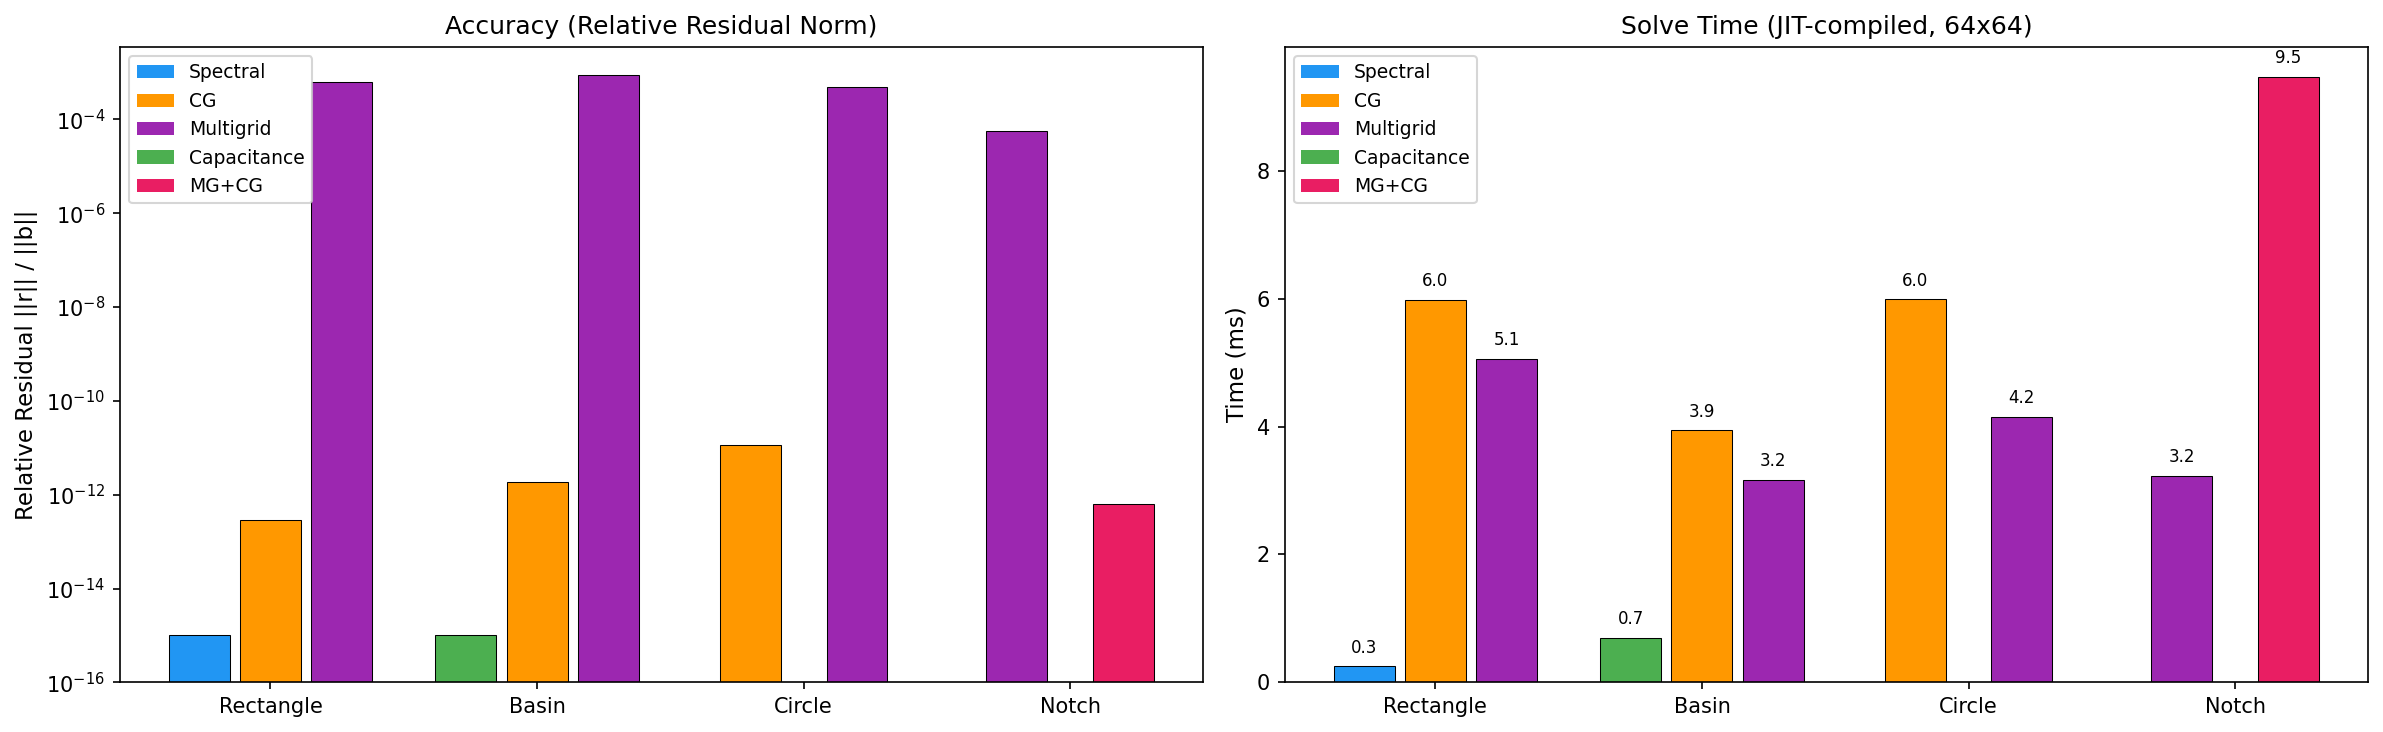
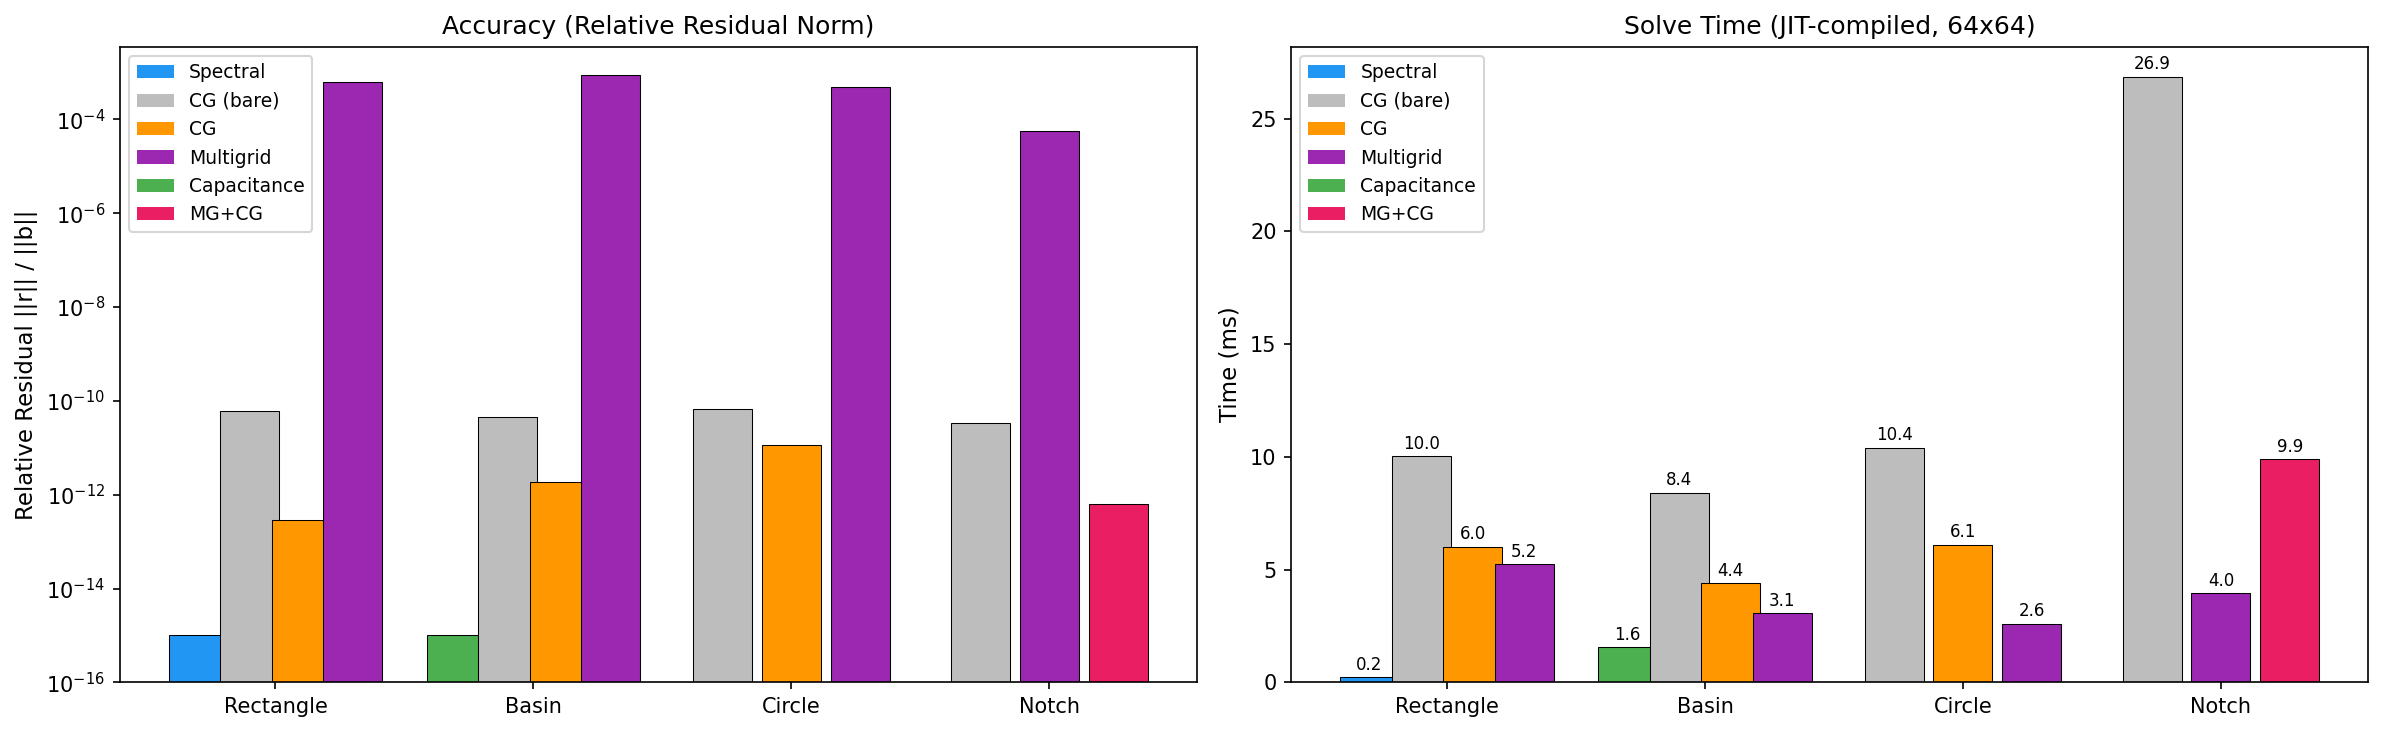
docs: add unpreconditioned CG baseline to all solver comparisons
Add CG (bare) — no preconditioner — as a baseline to all four domain
geometries (rectangle, basin, circle, notch). This makes the value of
preconditioning immediately visible: spectral PC cuts iterations ~6-8x,
and MG+CG reduces 370 bare iterations to 17 on the variable-coefficient
notch domain.

diff --git a/docs/notebooks/demo_solvers.py b/docs/notebooks/demo_solvers.py
@@ -336,8 +336,17 @@ plot_triplet(
 # ![Rectangle: Spectral solver](../../images/demo_solvers/solver_rect_spectral.png)
 
 # %%
-# ── CG + spectral preconditioner ──
+# ── CG (no preconditioner) ──
 A_rect = lambda x: fvx.masked_laplacian(x, mask_rect_jnp, dx, dy, lambda_=lambda_)
+sol_cg0_rect, info_cg0_rect = fvx.solve_cg(
+    A_rect, rhs, rtol=1e-10, atol=1e-10
+)
+t_cg0_rect = time_fn(
+    lambda: fvx.solve_cg(A_rect, rhs, rtol=1e-10, atol=1e-10)[0]
+)
+rr_cg0_rect = rel_residual(sol_cg0_rect, rhs, A_rect, interior_mask=interior_rect)
+
+# ── CG + spectral preconditioner ──
 pc_rect = fvx.make_spectral_preconditioner(dx, dy, lambda_=lambda_, bc="dst")
 sol_cg_rect, info_cg_rect = fvx.solve_cg(
     A_rect, rhs, preconditioner=pc_rect, rtol=1e-10, atol=1e-10
@@ -386,6 +395,11 @@ plot_triplet(
 # %%
 results["Rectangle"] = {
     "Spectral": {"time_ms": t_sp_rect * 1000, "rel_residual": 0.0, "label": "exact"},
+    "CG (bare)": {
+        "time_ms": t_cg0_rect * 1000,
+        "rel_residual": rr_cg0_rect,
+        "label": f"{info_cg0_rect.iterations} iters",
+    },
     "CG": {
         "time_ms": t_cg_rect * 1000,
         "rel_residual": rr_cg_rect,
@@ -399,7 +413,8 @@ results["Rectangle"] = {
 }
 
 print(f"  Spectral: {t_sp_rect * 1000:.2f} ms")
-print(f"  CG:       {t_cg_rect * 1000:.2f} ms, {info_cg_rect.iterations} iters")
+print(f"  CG bare:  {t_cg0_rect * 1000:.2f} ms, {info_cg0_rect.iterations} iters")
+print(f"  CG + PC:  {t_cg_rect * 1000:.2f} ms, {info_cg_rect.iterations} iters")
 print(f"  MG:       {t_mg_rect * 1000:.2f} ms, rel residual = {rr_mg_rect:.2e}")
 
 # %% [markdown]
@@ -460,6 +475,18 @@ print(f"  Capacitance: {t_cap * 1000:.2f} ms, boundary pts = {len(cap._j_b)}")
 # ![Basin: Capacitance solver](../../images/demo_solvers/solver_basin_cap.png)
 
 # %%
+# ── CG (no preconditioner) ──
+sol_cg0_basin, info_cg0_basin = fvx.solve_cg(
+    A_basin, rhs_basin, rtol=1e-10, atol=1e-10
+)
+sol_cg0_basin = sol_cg0_basin * mask_basin_jnp
+t_cg0_basin = time_fn(
+    lambda: fvx.solve_cg(A_basin, rhs_basin, rtol=1e-10, atol=1e-10)[0] * mask_basin_jnp
+)
+rr_cg0_basin = rel_residual(
+    sol_cg0_basin, rhs_basin, A_basin, interior_mask=mask_basin_jnp
+)
+
 # ── CG + spectral preconditioner ──
 pc_basin = fvx.make_spectral_preconditioner(dx, dy, lambda_=lambda_, bc="dst")
 sol_cg_basin, info_cg_basin = fvx.solve_cg(
@@ -519,6 +546,11 @@ plot_triplet(
 # %%
 results["Basin"] = {
     "Capacitance": {"time_ms": t_cap * 1000, "rel_residual": 0.0, "label": "direct"},
+    "CG (bare)": {
+        "time_ms": t_cg0_basin * 1000,
+        "rel_residual": rr_cg0_basin,
+        "label": f"{info_cg0_basin.iterations} iters",
+    },
     "CG": {
         "time_ms": t_cg_basin * 1000,
         "rel_residual": rr_cg_basin,
@@ -531,7 +563,8 @@ results["Basin"] = {
     },
 }
 
-print(f"  CG:       {t_cg_basin * 1000:.2f} ms, {info_cg_basin.iterations} iters")
+print(f"  CG bare:  {t_cg0_basin * 1000:.2f} ms, {info_cg0_basin.iterations} iters")
+print(f"  CG + PC:  {t_cg_basin * 1000:.2f} ms, {info_cg_basin.iterations} iters")
 print(f"  MG:       {t_mg_basin * 1000:.2f} ms, rel residual = {rr_mg_basin:.2e}")
 
 # %% [markdown]
@@ -560,6 +593,19 @@ print("\nCircle:")
 mask_circle_jnp = jnp.array(mask_circle)
 rhs_circle = rhs * mask_circle_jnp
 A_circle = lambda x: fvx.masked_laplacian(x, mask_circle_jnp, dx, dy, lambda_=lambda_)
+
+# ── CG (no preconditioner) ──
+sol_cg0_circle, info_cg0_circle = fvx.solve_cg(
+    A_circle, rhs_circle, rtol=1e-10, atol=1e-10
+)
+sol_cg0_circle = sol_cg0_circle * mask_circle_jnp
+t_cg0_circle = time_fn(
+    lambda: fvx.solve_cg(A_circle, rhs_circle, rtol=1e-10, atol=1e-10)[0]
+    * mask_circle_jnp
+)
+rr_cg0_circle = rel_residual(
+    sol_cg0_circle, rhs_circle, A_circle, interior_mask=mask_circle_jnp
+)
 
 # ── CG + spectral preconditioner ──
 pc_circle = fvx.make_spectral_preconditioner(dx, dy, lambda_=lambda_, bc="dst")
@@ -619,6 +665,11 @@ plot_triplet(
 
 # %%
 results["Circle"] = {
+    "CG (bare)": {
+        "time_ms": t_cg0_circle * 1000,
+        "rel_residual": rr_cg0_circle,
+        "label": f"{info_cg0_circle.iterations} iters",
+    },
     "CG": {
         "time_ms": t_cg_circle * 1000,
         "rel_residual": rr_cg_circle,
@@ -631,8 +682,9 @@ results["Circle"] = {
     },
 }
 
-print(f"  CG: {t_cg_circle * 1000:.2f} ms, {info_cg_circle.iterations} iters")
-print(f"  MG: {t_mg_circle * 1000:.2f} ms, rel residual = {rr_mg_circle:.2e}")
+print(f"  CG bare: {t_cg0_circle * 1000:.2f} ms, {info_cg0_circle.iterations} iters")
+print(f"  CG + PC: {t_cg_circle * 1000:.2f} ms, {info_cg_circle.iterations} iters")
+print(f"  MG:      {t_mg_circle * 1000:.2f} ms, rel residual = {rr_mg_circle:.2e}")
 
 # %% [markdown]
 # ## 6. Notch Domain with Variable Coefficient — Multigrid, MG+CG
@@ -690,6 +742,19 @@ mg_notch = fvx.build_multigrid_solver(
 )
 A_notch = lambda x: _apply_operator(x, mg_notch.levels[0])
 
+# ── CG (no preconditioner) ──
+sol_cg0_notch, info_cg0_notch = fvx.solve_cg(
+    A_notch, rhs_notch, rtol=1e-10, atol=1e-10
+)
+sol_cg0_notch = sol_cg0_notch * mask_notch_jnp
+t_cg0_notch = time_fn(
+    lambda: fvx.solve_cg(A_notch, rhs_notch, rtol=1e-10, atol=1e-10)[0]
+    * mask_notch_jnp
+)
+rr_cg0_notch = rel_residual(
+    sol_cg0_notch, rhs_notch, A_notch, interior_mask=mask_notch_jnp
+)
+
 # ── Multigrid standalone (10 V-cycles) ──
 sol_mg_notch = mg_notch(rhs_notch)
 t_mg_notch = time_fn(lambda: mg_notch(rhs_notch))
@@ -746,6 +811,11 @@ plot_triplet(
 
 # %%
 results["Notch\n(variable coeff)"] = {
+    "CG (bare)": {
+        "time_ms": t_cg0_notch * 1000,
+        "rel_residual": rr_cg0_notch,
+        "label": f"{info_cg0_notch.iterations} iters",
+    },
     "Multigrid": {
         "time_ms": t_mg_notch * 1000,
         "rel_residual": rr_mg_notch,
@@ -761,9 +831,10 @@ results["Notch\n(variable coeff)"] = {
 diff_mg_mgcg = float(
     jnp.linalg.norm(sol_mgcg_notch - sol_mg_notch) / jnp.linalg.norm(sol_mgcg_notch)
 )
-print(f"  MG:    {t_mg_notch * 1000:.2f} ms, rel residual = {rr_mg_notch:.2e}")
+print(f"  CG bare: {t_cg0_notch * 1000:.2f} ms, {info_cg0_notch.iterations} iters")
+print(f"  MG:      {t_mg_notch * 1000:.2f} ms, rel residual = {rr_mg_notch:.2e}")
 print(
-    f"  MG+CG: {t_mgcg_notch * 1000:.2f} ms, {info_mgcg_notch.iterations} iters, "
+    f"  MG+CG:   {t_mgcg_notch * 1000:.2f} ms, {info_mgcg_notch.iterations} iters, "
     f"rel residual = {rr_mgcg_notch:.2e}"
 )
 print(f"  Relative difference MG vs MG+CG: {diff_mg_mgcg:.2e}")
@@ -785,6 +856,7 @@ geom_shorts = [g.split("\n")[0] for g in geom_order]
 colors = {
     "Spectral": "#2196F3",
     "Capacitance": "#4CAF50",
+    "CG (bare)": "#BDBDBD",
     "CG": "#FF9800",
     "Multigrid": "#9C27B0",
     "MG+CG": "#E91E63",
